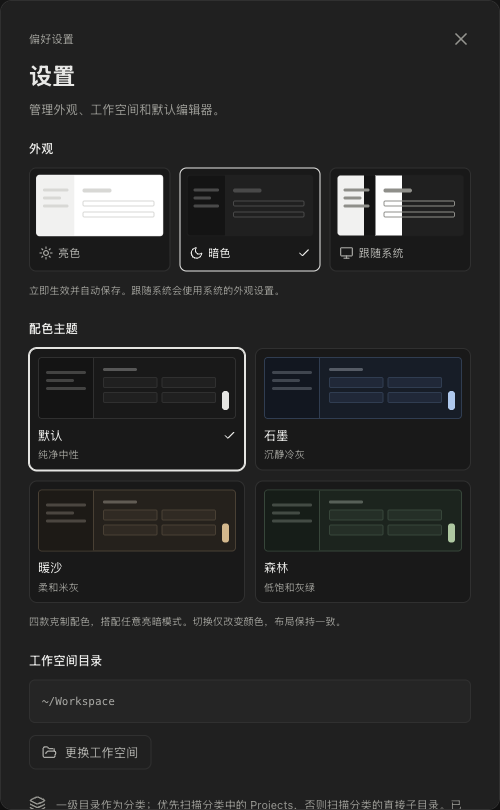
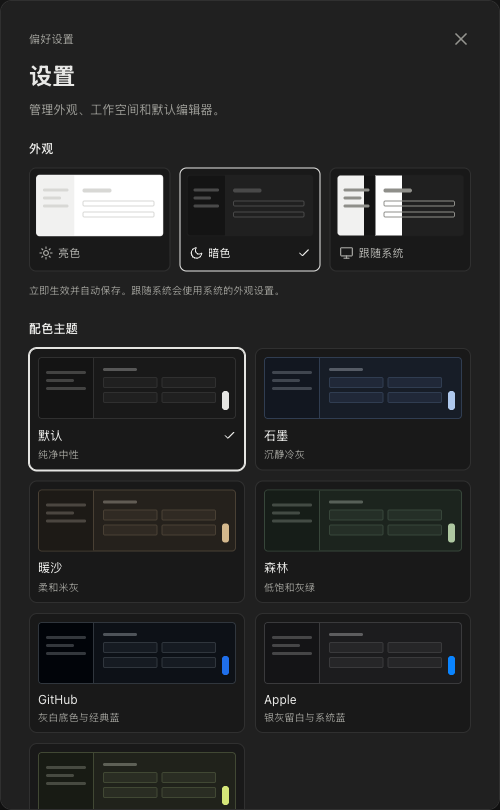
Add GitHub, Apple and MacBook Neo color palettes

diff --git a/src/main.tsx b/src/main.tsx
@@ -330,7 +330,7 @@ function App() {
           onChange={(value) => void changeAppearance(() => api.setPalette(value))}
           disabled={busy}
         />
-        <p className="theme-help">四款克制配色，搭配任意亮暗模式。切换仅改变颜色，布局保持一致。</p>
+        <p className="theme-help">七款内置配色，搭配任意亮暗模式。切换仅改变颜色，布局保持一致。</p>
         <label className="settings-label">工作空间目录</label>
         <div className="settings-path">{state?.settings.workspace || '尚未选择工作空间'}</div>
         {session && <p className="theme-help">更换工作空间会返回项目列表，并关闭当前项目终端。</p>}

diff --git a/src/types.ts b/src/types.ts
@@ -17,7 +17,7 @@ export interface Snapshot {
   scannedAt: number;
 }
 export type ThemePreference = 'light' | 'dark' | 'system';
-export type PaletteName = 'default' | 'graphite' | 'sand' | 'forest';
+export type PaletteName = 'default' | 'graphite' | 'sand' | 'forest' | 'github' | 'apple' | 'neo';
 export interface CategoryStyle {
   color: string;
   icon: string;

diff --git a/README.md b/README.md
@@ -90,7 +90,7 @@
     <td><strong>⌨ 内置终端</strong><br />进入项目目录即可运行命令，支持 ANSI 真彩色、滚动和进程中断。</td>
   </tr>
   <tr>
-    <td><strong>🌗 亮暗随心</strong><br />默认、石墨、暖沙、森林四款配色，各自适配亮色、暗色和跟随系统，布局保持一致。</td>
+    <td><strong>🌗 亮暗随心</strong><br />默认、石墨、暖沙、森林、GitHub、Apple、MacBook Neo 七款配色，各自适配亮色、暗色和跟随系统，布局保持一致。</td>
     <td><strong>🔒 数据留在本机</strong><br />设置本地保存，扫描不移动或删除项目文件，无需云端账户。</td>
   </tr>
 </table>
@@ -167,18 +167,23 @@ npm run dev
 
 通过系统菜单打开 **设置… → 配色主题**，点击预览卡片即可切换并保存到本机。配色与亮暗模式独立，可自由组合：
 
-| 主题 | 配色风格                 |
-| ---- | ------------------------ |
-| 默认 | 延续现有纯净中性色       |
-| 石墨 | 冷灰底色，少量雾蓝点缀   |
-| 暖沙 | 柔和米灰与克制的暖棕色   |
-| 森林 | 低饱和灰绿，保持安静简洁 |
+| 主题        | 配色风格                     |
+| ----------- | ---------------------------- |
+| 默认        | 延续现有纯净中性色           |
+| 石墨        | 冷灰底色，少量雾蓝点缀       |
+| 暖沙        | 柔和米灰与克制的暖棕色       |
+| 森林        | 低饱和灰绿，保持安静简洁     |
+| GitHub      | 灰白与深灰底色，经典蓝色点缀 |
+| Apple       | 银灰留白，搭配清晰的系统蓝   |
+| MacBook Neo | 淡米白与炭灰，青柠黄色点缀   |
+
+GitHub 配色参考 [Primer](https://primer.style/product/getting-started/foundations/color-usage/)，MacBook Neo 配色以 [Citrus 青柠黄色](https://www.apple.com/macbook-neo/)为灵感，采用适合长时间使用的柔和色值。
 
 主题只改变配色，不改变尺寸、间距、面板比例或悬浮按钮位置。代码高亮继续使用 VS Code Light+ / Dark+；终端背景随主题调整，程序的 ANSI 与真彩色输出保持正常。
 
 <picture>
   <source media="(prefers-color-scheme: dark)" srcset="docs/assets/themes-dark.png" />
-  <img src="docs/assets/themes-light.png" alt="设置中的四款内置配色主题：默认、石墨、暖沙与森林" width="500" />
+  <img src="docs/assets/themes-light.png" alt="设置中的七款内置配色主题：默认、石墨、暖沙、森林、GitHub、Apple 与 MacBook Neo" width="500" />
 </picture>
 
 ### 新增分类与项目（源码预览版）
@@ -324,7 +329,7 @@ Workspace/
 | `npm run test:management`  | 验证分类外观、新建分类与空项目、重启保存 |
 | `npm run test:removal`     | 验证移除弹窗、定位、恢复和文件完整性     |
 | `npm run test:category`    | 验证精简分类页、悬浮工具、排序和视图切换 |
-| `npm run test:palettes`    | 验证四主题亮暗配色、布局不变与重启保存   |
+| `npm run test:palettes`    | 验证七主题亮暗配色、布局不变与重启保存   |
 | `npm run format:check`     | 检查代码格式                             |
 | `npm run docs:screenshots` | 构建应用并使用示例数据更新文档截图       |
 

diff --git a/README.en.md b/README.en.md
@@ -90,7 +90,7 @@ Open a project card to enter the three-panel workbench: browse files on the left
     <td><strong>⌨ Built-in terminal</strong><br />Run commands in the project directory, with ANSI true color, scrollback and process interruption.</td>
   </tr>
   <tr>
-    <td><strong>🌗 Choose your appearance</strong><br />Default, Graphite, Warm Sand and Forest palettes, each supporting light, dark and system appearance with identical layouts.</td>
+    <td><strong>🌗 Choose your appearance</strong><br />Seven palettes: Default, Graphite, Warm Sand, Forest, GitHub, Apple and MacBook Neo, each supporting light, dark and system appearance with identical layouts.</td>
     <td><strong>🔒 Local by design</strong><br />Preferences stay on your computer. Scanning does not move or delete projects, and no cloud account is required.</td>
   </tr>
 </table>
@@ -167,18 +167,23 @@ The sidebar starts with a single row containing the app icon and name, aligned w
 
 Open **Settings… → 配色主题** (Color theme) from the native menu, then choose a preview card. The choice saves locally. Palette and appearance mode are independent:
 
-| Theme            | Style                                  |
-| ---------------- | -------------------------------------- |
-| 默认 · Default   | The existing clean neutral palette     |
-| 石墨 · Graphite  | Cool gray with restrained blue accents |
-| 暖沙 · Warm Sand | Soft beige gray and muted warm brown   |
-| 森林 · Forest    | Quiet, low-saturation gray green       |
+| Theme            | Style                                                  |
+| ---------------- | ------------------------------------------------------ |
+| 默认 · Default   | The existing clean neutral palette                     |
+| 石墨 · Graphite  | Cool gray with restrained blue accents                 |
+| 暖沙 · Warm Sand | Soft beige gray and muted warm brown                   |
+| 森林 · Forest    | Quiet, low-saturation gray green                       |
+| GitHub           | White and deep gray with classic blue accents          |
+| Apple            | Silver gray with crisp system blue                     |
+| MacBook Neo      | Soft off-white and charcoal with citrus yellow accents |
+
+The GitHub palette draws from [Primer](https://primer.style/product/getting-started/foundations/color-usage/); MacBook Neo takes inspiration from [Citrus](https://www.apple.com/macbook-neo/), softened for comfortable everyday use.
 
 Themes change colors only. Sizes, spacing, panel proportions and floating controls stay in place. Syntax highlighting retains VS Code Light+ / Dark+ colors; the terminal background follows the palette while ANSI and true-color program output remain supported.
 
 <picture>
   <source media="(prefers-color-scheme: dark)" srcset="docs/assets/themes-dark.png" />
-  <img src="docs/assets/themes-light.png" alt="Four built-in color theme previews in Settings: Default, Graphite, Warm Sand and Forest" width="500" />
+  <img src="docs/assets/themes-light.png" alt="Seven built-in color theme previews in Settings: Default, Graphite, Warm Sand, Forest, GitHub, Apple and MacBook Neo" width="500" />
 </picture>
 
 ### Creating categories and projects (source preview)
